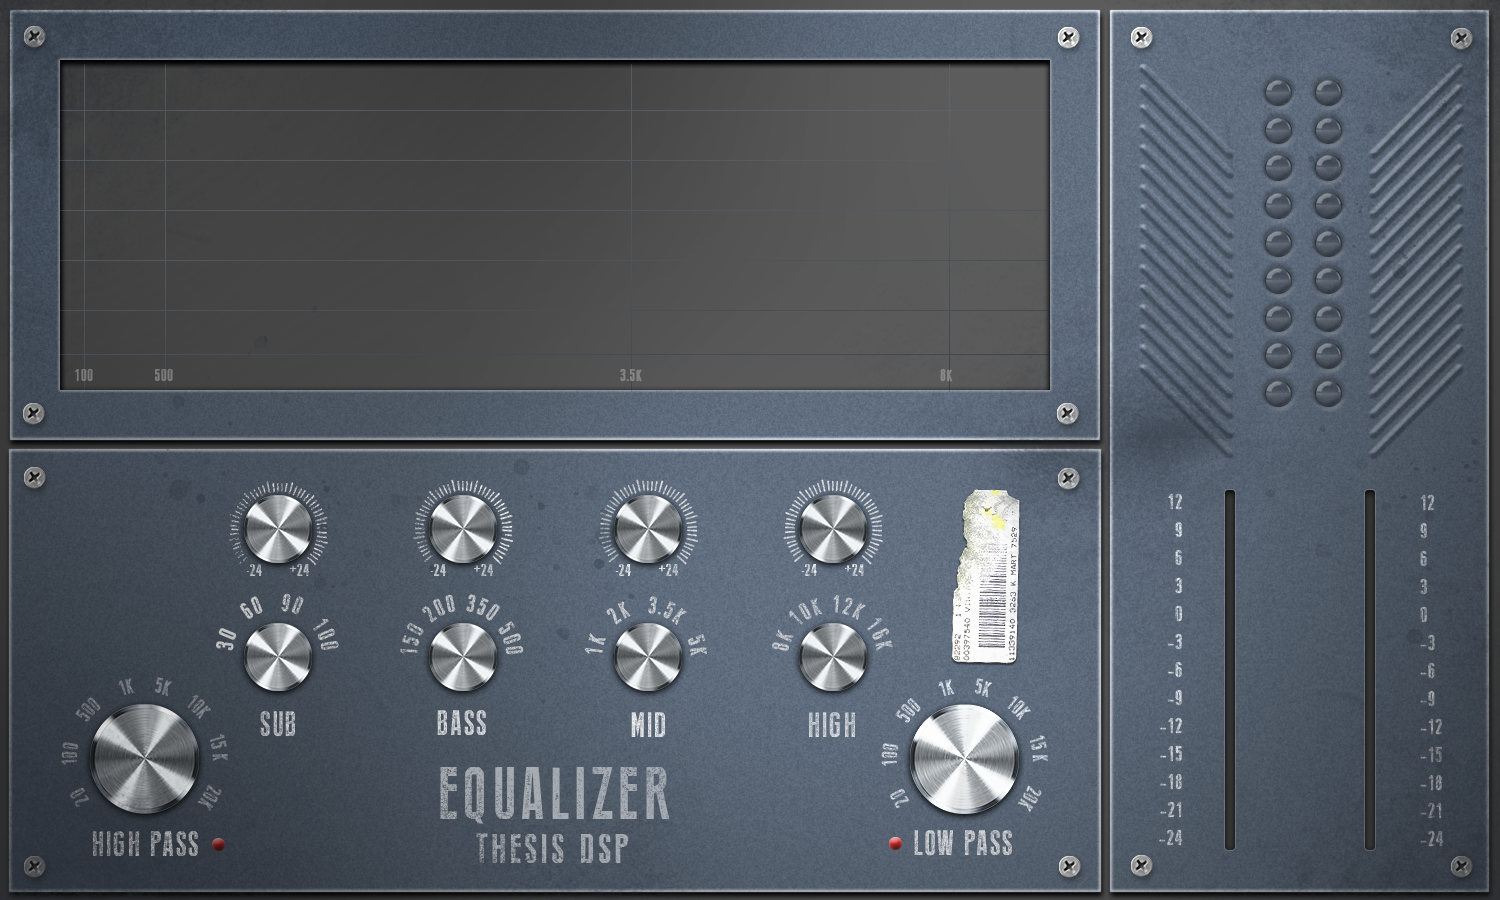
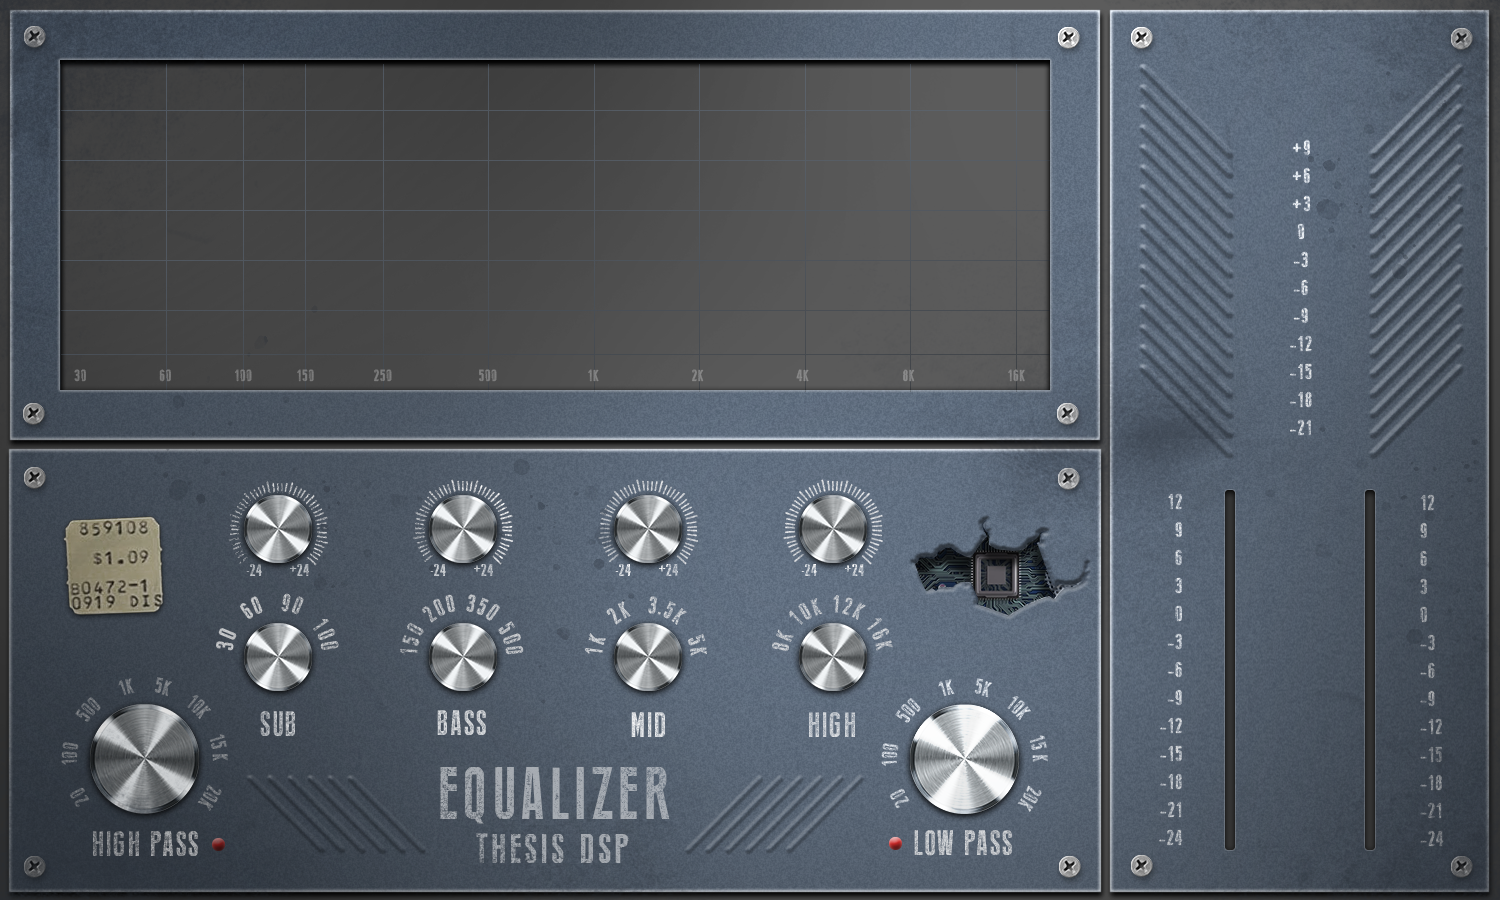
meter colors dim

diff --git a/Equalizer/Source/PluginEditor.cpp b/Equalizer/Source/PluginEditor.cpp
@@ -220,11 +220,13 @@ void EqualizerAudioProcessorEditor::resized()
     int filterKnobY = 600 * resizeFactor;
     int gainKnobY = 450 * resizeFactor;
     int spacingBKnobs = 250 * resizeFactor;
+    
     //lopass hipass
     int lopasshipassY = 704 * resizeFactor;
     int lopasshipassWidth = 109 * resizeFactor;
     int lopassX = 910 * resizeFactor;
     int hipassX = 90 * resizeFactor;
+    
     //volume faders
     int fadersWidth = 80 * resizeFactor;
     int fadersHeight = 362 * resizeFactor;
@@ -233,6 +235,7 @@ void EqualizerAudioProcessorEditor::resized()
     int inputGainFaderX = 1230 * resizeFactor;
     int outputGainFaderX = 1370 * resizeFactor;
     int inoutGainFaderY = 490 * resizeFactor;
+   
     //sub range
     int subGainX = 244 * resizeFactor;
     int subGainY = 495.5 * resizeFactor;
@@ -240,6 +243,7 @@ void EqualizerAudioProcessorEditor::resized()
     int subFrequencyX = 244 * resizeFactor;
     int subFrequencyY = 623 * resizeFactor;
     int subFrequencyWidth = 68 * resizeFactor;
+    
     //knobs 
     int lilKnobsDistance = 117 * resizeFactor;
     int lilKnobWidth = 68 * resizeFactor;
@@ -284,33 +288,9 @@ void EqualizerAudioProcessorEditor::resized()
                        lilKnobWidth);
 
     analyzer.setBounds(60 * resizeFactor, 60 * resizeFactor, 990 * resizeFactor, 330 * resizeFactor);
-    meterComponentL.setBounds(1254 * resizeFactor, 80 * resizeFactor, 50 * resizeFactor, 350 * resizeFactor);
-    meterComponentR.setBounds(1304 * resizeFactor, 80 * resizeFactor, 50 * resizeFactor, 350 * resizeFactor);
+    meterComponentL.setBounds(1245 * resizeFactor, 138 * resizeFactor, 40 * resizeFactor, 300 * resizeFactor);
+    meterComponentR.setBounds(1321 * resizeFactor, 138 * resizeFactor, 40 * resizeFactor, 300 * resizeFactor);
 }
 
 void EqualizerAudioProcessorEditor::timerCallback()
-{
-    /*
-    if (++framesElapsed > 100)
-    {
-        framesElapsed = 0;
-        maxRmsLeft = -100.f;
-        maxRmsRight = -100.f;
-    }
-
-    const auto leftGain = audioProcessor.getRmsLevel(0);
-    const auto rightGain = audioProcessor.getRmsLevel(1);
-    if (leftGain > maxRmsLeft)
-        maxRmsLeft = leftGain;
-    if (rightGain > maxRmsRight)
-        maxRmsRight = rightGain;
-    currentRmsValue.setText(String{ leftGain, 2 } + "   " + String{ rightGain, 2 }, sendNotification);
-    maxRmsValue.setText(String{ maxRmsLeft, 2 } + "   " + String{ maxRmsRight, 2 }, sendNotification);
-
-    DbMeterL.setLevel(leftGain);
-    DbMeterL.repaint();
-
-    DbMeterR.setLevel(rightGain);
-    DbMeterR.repaint();
-    */
-}
+{}
